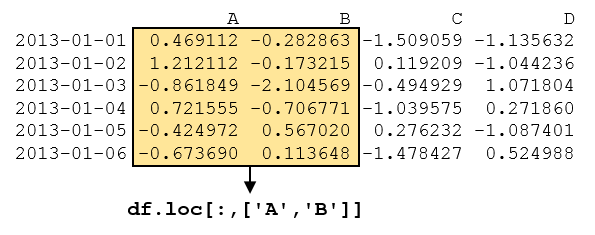
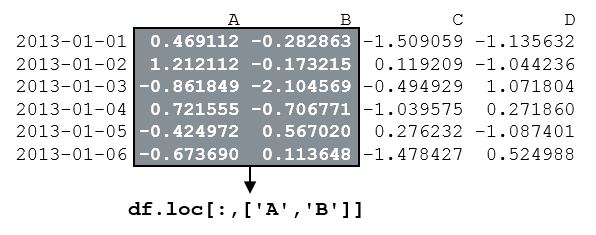
change images to grayscale

diff --git a/_posts/2017-08-12-pandas-10min.md b/_posts/2017-08-12-pandas-10min.md
@@ -240,7 +240,7 @@ type(df['A'])
 
 여러분의 이해를 돕기 위해 그림으로 다시 나타내면 다음과 같습니다. (앞으로 나오는 예제들도 그림으로 한번 더 설명하겠습니다.)
 
-![Image](/images/2017-08-12-fig1.png?v3 "Select column A"){: .center-image}
+![Image](/images/2017-08-12-fig1.png?gray "Select column A"){: .center-image}
 
 특정 '행 범위'를 가져오고 싶다면 다음과 같이 리스트를 슬라이싱 할 때와 같이 `[]`를 이용할 수 있습니다. `df[0:3]`라고 하면 0, 1, 2번째 행을 가져옵니다(데이터프레임의 첫번째 행을 0번째 행이라고 가정). `[0:3]`이라고 입력했지만 3번째 행을 가져오지 않음에 유의합니다. 또 다른 방법으로 `df['20130102':'20130104']` 인덱스명을 직접 넣어서 해당하는 '행 범위'를 가져올 수도 있습니다. 이 때에는 숫자를 이용하여 슬라이싱 할 때와 달리 처음과 끝의 행이 모두 포함된 결과를 가져옵니다.
 
@@ -258,7 +258,7 @@ df['20130102':'20130104']
 # 2013-01-04  0.721555 -0.706771 -1.039575  0.271860
 ```
 
-![Image](/images/2017-08-12-fig2.png?v3 "Select rows"){: .center-image}
+![Image](/images/2017-08-12-fig2.png?gray "Select rows"){: .center-image}
 
 여기서 제가 왜 특정 '행'이 아니라 '행 범위'라고 강조하였는지를 설명드리겠습니다. 만약 특정 행 하나를 가져오고 싶은 경우에 `df['20130102']`라고 하면 KeyError가 발생합니다. 왜일까요? 이 때에는 '20130102'라는 이름의 '인덱스'가 아니라 '컬럼'을 갖고 있는지 찾게 됩니다. 따라서 현재 데이터프레임에는 없으므로 키 값이 없다는 에러를 출력하게 되는 것입니다. 특정 '행 하나'를 선택하고 싶을 때에는 `df['20130102':'20130102']`와 같이 입력하면 됩니다. 다시 정리하자면, 데이터프레임 자체가 갖고 있는 슬라이싱은 `df[컬럼명]`, `df[시작인덱스:끝인덱스+1]`, `df[시작인덱스명:끝인덱스명]`의 형태로 사용할 수 있습니다.
 
@@ -276,7 +276,7 @@ df.loc[dates[0]]
 # Name: 2013-01-01 00:00:00, dtype: float64
 ```
 
-![Image](/images/2017-08-12-fig3.png?v3 "Select rows"){: .center-image}
+![Image](/images/2017-08-12-fig3.png?gray "Select rows"){: .center-image}
 
 컬럼 'A'와 컬럼 'B'에 대한 모든 값 가져오기.
 
@@ -291,7 +291,7 @@ df.loc[:,['A','B']]
 # 2013-01-06 -0.673690  0.113648
 ```
 
-![Image](/images/2017-08-12-fig4.png?v1 "Select rows"){: .center-image}
+![Image](/images/2017-08-12-fig4.png?gray "Select rows"){: .center-image}
 
 인덱스 '2013-01-02'부터 '2013-01-04'까지의 컬럼 'A'와 컬럼 'B'의 값 가져오기.
 
@@ -303,7 +303,7 @@ df.loc['20130102':'20130104',['A','B']]
 # 2013-01-04  0.721555 -0.706771
 ```
 
-![Image](/images/2017-08-12-fig5.png?v1 "Select rows"){: .center-image}
+![Image](/images/2017-08-12-fig5.png?gray "Select rows"){: .center-image}
 
 특정 인덱스 값의 컬럼 'A', 'B' 값을 가져오기.
 
@@ -314,7 +314,7 @@ df.loc[dates[0], ['A','B']]
 # Name: 2013-01-02 00:00:00, dtype: float64
 ```
 
-![Image](/images/2017-08-12-fig6.png?v1 "Select rows"){: .center-image}
+![Image](/images/2017-08-12-fig6.png?gray "Select rows"){: .center-image}
 
 특정 인덱스 값과 특정 컬럼에 있는 값 가져오기. 이는 `.at`을 이용할 수도 있습니다.
 
@@ -326,7 +326,7 @@ df.at[dates[0], 'A']
 # 0.46911229990718628
 ```
 
-![Image](/images/2017-08-12-fig7.png?v1 "Select rows"){: .center-image}
+![Image](/images/2017-08-12-fig7.png?gray "Select rows"){: .center-image}
 
 ### 위치를 이용하여 선택하기: `.iloc`
 
